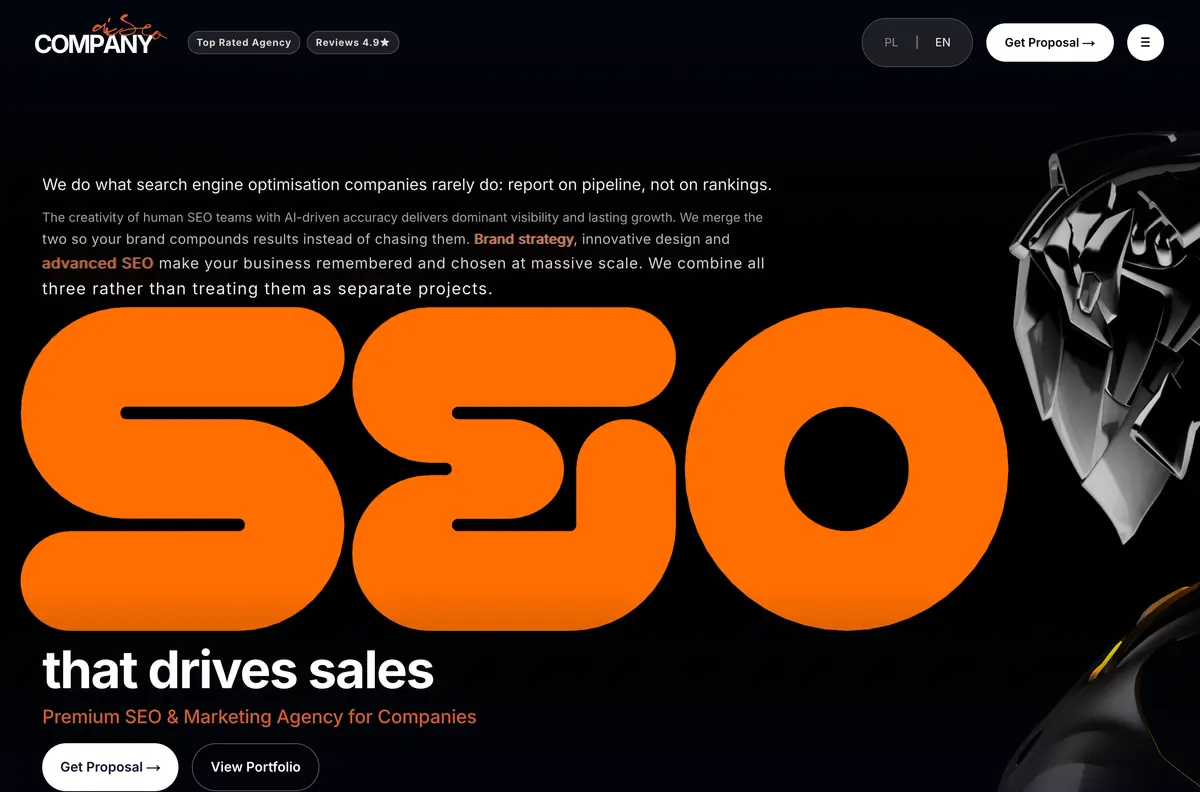
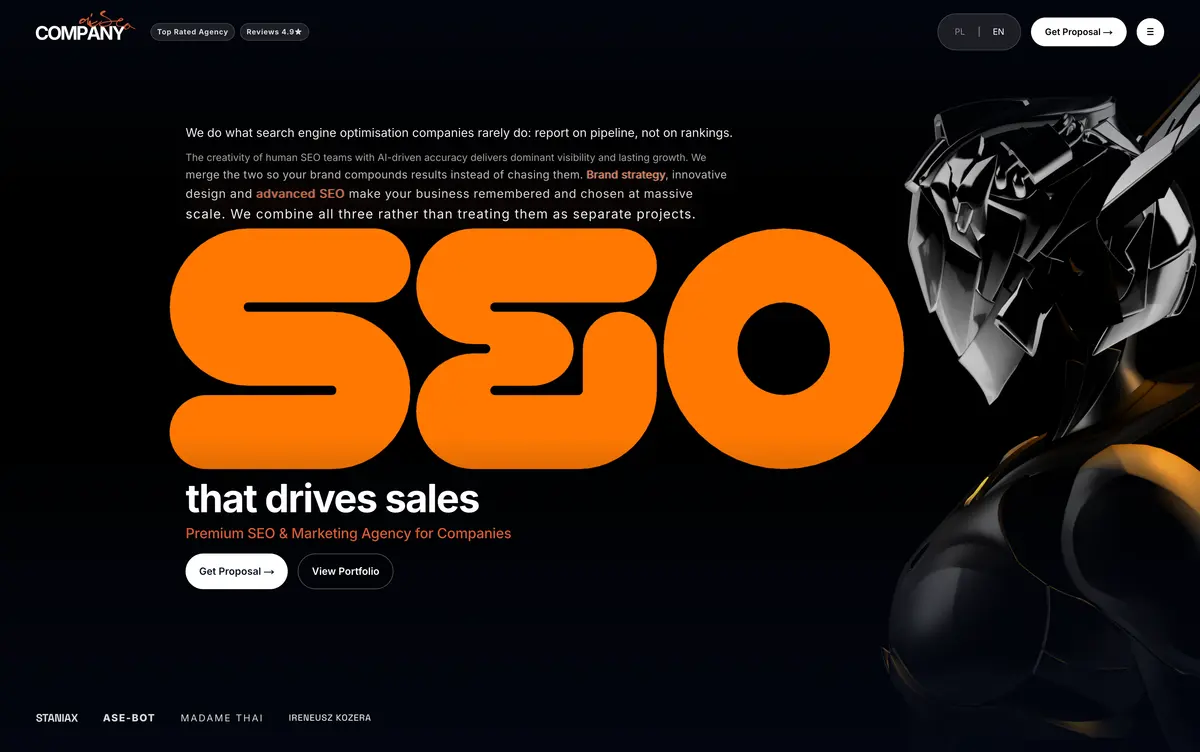
fix(portfolio): kadry hero i bazy wiedzy Staniax - wersje ostateczne
Hero (1200x752): koniec przymiarek kadrem - zrzut z okna 1920x1200,
w ktorym sekcja hero Z DEFINICJI wypelnia caly viewport (scena 16:10
z commita o stalej kompozycji). Kadr = kompozycja projektowa 1:1:
navbar, akapit, litery SEO, haslo, podtytul, oba CTA, robot w calosci
i pas logotypow klientow. Baner cookies i plywajacy przycisk ukryte
przed zrzutem (nakladki fixed, nie tresc sekcji). PL + EN.

Baza wiedzy Staniax (1200x672): kadr od pierwszego piksela gridu kart
- bez bialego pasa u gory; duza karta z fotografia i tytulem oraz trzy
karty artykulow z datami.

Aliasy wszystkich starszych nazw obu kafli zaktualizowane na nowa
tresc (ochrona przy przeterminowanym HTML u klienta).

diff --git a/components/Portfolio.jsx b/components/Portfolio.jsx
@@ -114,11 +114,11 @@ const MOSAIC = [
      prawdziwe panele GSC. */
 { src: '/projects/mosaic/elkat-a-v2.webp', w: 1200, h: 970, alt: 'Sekcja hero katalogu komponentów elektrycznych Elkat Power', altEn: 'Hero section of the Elkat Power electrical components catalogue' },
 { src: '/projects/mosaic/mad-a-v2.webp', w: 1200, h: 840, alt: 'Sekcja hero strony głównej restauracji Madame Thai', altEn: 'Hero section of the Madame Thai restaurant homepage' },
-{ src: '/projects/mosaic/own-hero-pl3.webp', srcEn: '/projects/mosaic/own-hero-en3.webp', w: 1200, h: 792,
+{ src: '/projects/mosaic/own-hero-pl4.webp', srcEn: '/projects/mosaic/own-hero-en4.webp', w: 1200, h: 752,
     alt: 'Sekcja hero strony AI SEO COMPANY — napis SEO w scenie 3D', altEn: 'Hero section of the AI SEO COMPANY website — 3D SEO scene' },
 { src: '/projects/mosaic/ase-a-v2.webp', w: 1200, h: 700, alt: 'Pełna sekcja hero platformy tradingowej ASE-BOT — AI trading i analiza rynków', altEn: 'Hero section of the ASE-BOT trading platform homepage' },
 { src: '/projects/mosaic/tql-a.webp', w: 1200, h: 840, alt: 'Sekcja hero strony głównej TQL — wdrożenia norm ISO', altEn: 'Hero section of the TQL ISO implementation homepage' , srcEn: '/projects/mosaic/tql-a-en.webp' },
-{ src: '/projects/mosaic/sta-blog-pl2.webp', w: 1200, h: 719,
+{ src: '/projects/mosaic/sta-blog-pl3.webp', w: 1200, h: 672,
     alt: 'Karty artykułów bazy wiedzy Staniax — metalizacja próżniowa i regeneracja odbłyśników', altEn: 'Staniax knowledge base — articles on vacuum metallization' },
 { src: '/projects/mosaic/sta-a-v4.webp', w: 1200, h: 800, alt: 'Sekcja „Kim jesteśmy" strony Staniax — metalizacja próżniowa, 25 lat doświadczenia', altEn: 'About section of the Staniax vacuum metallization website' , srcEn: '/projects/mosaic/sta-a-en3.webp' },
 { src: '/projects/mosaic/own-blog-pl3.webp', srcEn: '/projects/mosaic/own-blog-en3.webp', w: 1200, h: 840,
@@ -166,9 +166,9 @@ export default function Portfolio() {
     if (cols === 5) {
       const byKey = Object.fromEntries(MOSAIC.map((t) => [t.src.split('/').pop().replace('.webp', ''), t]));
       return [
-        ['sta-a-v4', 'sta-blog-pl2', 'staniax'],
+        ['sta-a-v4', 'sta-blog-pl3', 'staniax'],
         ['mad-a-v2', 'madamethai'],
-        ['own-hero-pl3', 'own-blog-pl3', 'ai-seo-company'],
+        ['own-hero-pl4', 'own-blog-pl3', 'ai-seo-company'],
         ['ase-a-v2', 'fix-a-v2', 'ase-bot'],
         ['elkat-a-v2', 'tql-a', 'tql'],
       ].map((stack) => stack.map((k) => byKey[k]));
